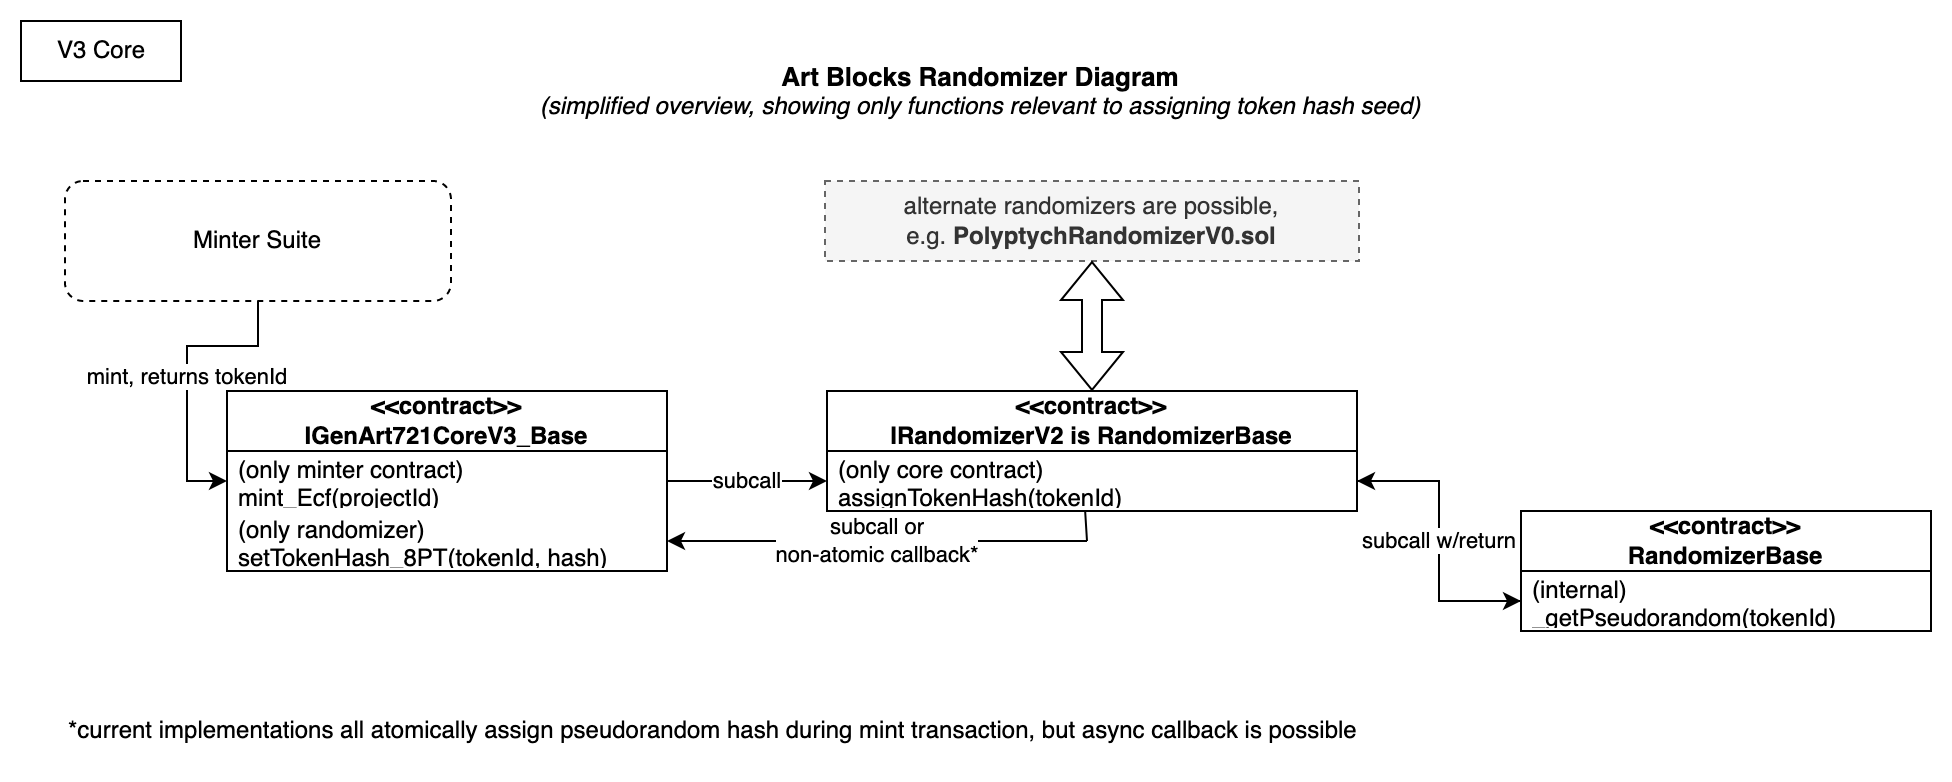
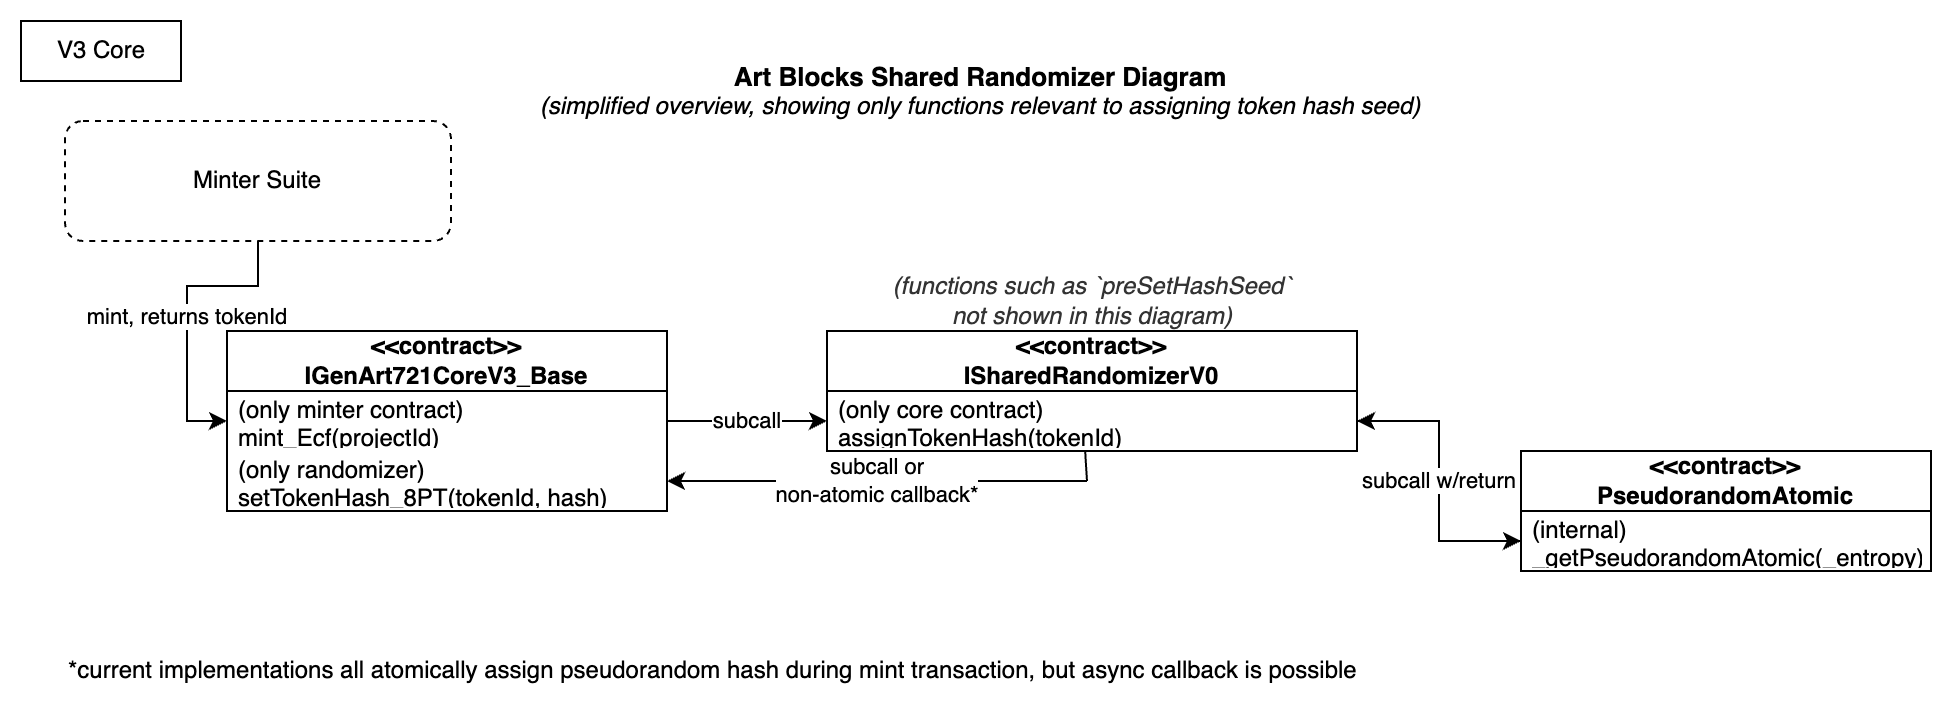
update documentation with new shared minter suite updates

diff --git a/packages/contracts/MINTER_SUITE.md b/packages/contracts/MINTER_SUITE.md
@@ -2,22 +2,26 @@
 
 ## Overview
 
-The Art Blocks Minter Suite is a collection of smart contracts that enable Artists (using V3 core contracts) to distribute tokens from their projects to collectors.
+The Art Blocks Minter Suite is a collection of smart contracts that enable Artists using V3 core contracts to distribute tokens from their projects to collectors.
 
 A diagram of the the Minter Suite is shown below:
 
-![minter-suite-diagram](./images/minter-suite-v1.png)
+![minter-suite-diagram](./images/minter-suite-v2.png)
+
+> note: The diagram above describes the Art Blocks Shared Minter Suite. The previous version of the non-shared minter suite is not shown.
 
 ## MinterFilter Suite Compatibility Chart
 
 The following table shows which Minters and MinterFilters are compatible with different Art Blocks and Art Blocks Engine Core contracts.
 
-| Core Contract Version                          | Minter Filter  | Recommended Minters                                                                                                                        |
-| :--------------------------------------------- | :------------- | :----------------------------------------------------------------------------------------------------------------------------------------- |
-| V1, V1_PRTNR                                   | MinterFilterV0 | MinterSetPriceV1<br>MinterSetPriceERC20V1<br>MinterDAExpV1<br>MinterDALinV1<br>MinterMerkleV0<br>MinterHolderV0                            |
-| V2 (PBAB)                                      | -              | (various PBAB minters)                                                                                                                     |
-| V3, V3_Explorations, V3_Engine, V3_Engine_Flex | MinterFilterV1 | MinterSetPriceV4<br>MinterSetPriceERC20V4<br>MinterMerkleV5<br>MinterHolderV4<br>MinterDALinV4<br>MinterDAExpV4<br>MinterDAExpSettlementV2 |
-| V3_Engine, V3_Engine_Flex                      | MinterFilterV1 | MinterPolyptychV0                                                                                                                          |
+| Core Contract Version                          | Minter Filter  | Recommended Minters                                                                                                                                        |
+| :--------------------------------------------- | :------------- | :--------------------------------------------------------------------------------------------------------------------------------------------------------- |
+| V1, V1_PRTNR                                   | MinterFilterV0 | MinterSetPriceV1<br>MinterSetPriceERC20V1<br>MinterDAExpV1<br>MinterDALinV1<br>MinterMerkleV0<br>MinterHolderV0                                            |
+| V2 (PBAB)                                      | -              | (various PBAB minters)                                                                                                                                     |
+| V3, V3_Explorations, V3_Engine, V3_Engine_Flex | MinterFilterV2 | MinterSetPriceV5<br>MinterSetPriceERC20V5<br>MinterSetPriceMerkleV5<br>MinterSetPriceHolderV4<br>MinterDALinV5<br>MinterDAExpV5<br>MinterDAExpSettlementV3 |
+| V3_Engine, V3_Engine_Flex                      | MinterFilterV2 | MinterSetPricePolyptychV5                                                                                                                                  |
+
+> note: MinterFilterV1 is also compatible with V3 core contracts, but it is recommended to migrate to MinterFilterV2 to enable additional functionality and indexing.
 
 ## Flagship
 
@@ -28,62 +32,40 @@ These are the smart contracts that receive funds, and split them between the art
 #### MinterSetPrice (Set Price)
 
 - V0 (deprecated): [0x1DEC9E52f1320F7Deb29cBCd7B7d67f3dF785142](https://etherscan.io/address/0x1DEC9E52f1320F7Deb29cBCd7B7d67f3dF785142#code)
-- V1: [0x934cdc04C434b8dBf3E1265F4f198D70566f7355](https://etherscan.io/address/0x934cdc04C434b8dBf3E1265F4f198D70566f7355#code)
-- V2: [0x7B7917e083CeA6d9f6a3060a7330c1072fcb4e40](https://etherscan.io/address/0x7B7917e083CeA6d9f6a3060a7330c1072fcb4e40#code)
-- V3: N/A, never used in prod.
-- V4: [0x234B25288011081817B5cC199C3754269cCb76D2](https://etherscan.io/address/0x234B25288011081817B5cC199C3754269cCb76D2#code)
+- V5: TBD
 
 #### MinterSetPriceERC20 (Set Price with ERC20)
 
 - V0 (deprecated): [0x48742D38a0809135EFd643c1150BfC13768C3907](https://etherscan.io/address/0x48742D38a0809135EFd643c1150BfC13768C3907#code)
-- V1: [0x0BbB93c5d118D1dee49e96BCAdc161403f4F8612](https://etherscan.io/address/0x0BbB93c5d118D1dee49e96BCAdc161403f4F8612#code)
-- V2: [0xe4c6EeF13649e9C4Ad8ae8A9C7fA9A7F26B4287a](https://etherscan.io/address/0xe4c6EeF13649e9C4Ad8ae8A9C7fA9A7F26B4287a#code)
-- V3: N/A, never used in prod.
-- V4: [0x9fEcd2FbC6D890fB93632DcE9b1a01c4090A7E2d](https://etherscan.io/address/0x9fEcd2FbC6D890fB93632DcE9b1a01c4090A7E2d#code)
+- V5: TBD
 
 #### MinterDALin (Linear Dutch Auction)
 
 - V0 (deprecated): [0xd219f61Bb5A3ffDeCB4362610977F1dAB3930eE2](https://etherscan.io/address/0xd219f61Bb5A3ffDeCB4362610977F1dAB3930eE2#code)
-- V1: [0x32710950B014c2D29EA24f480Dd02c7e4610663b](https://etherscan.io/address/0x32710950B014c2D29EA24f480Dd02c7e4610663b#code)
-- V2: [0xdaa6D1e224f4B9f7c4f1368C362C4333A8e385A6](https://etherscan.io/address/0xdaa6D1e224f4B9f7c4f1368C362C4333A8e385A6#code)
-- V3: N/A, never used in prod.
-- V4: [0x419501DD208BFf237e3E32C40D074065e12DfF4d](https://etherscan.io/address/0x419501DD208BFf237e3E32C40D074065e12DfF4d#code)
+- V5: TBD
 
 #### MinterDAExp (Exponential Decay Dutch Auction)
 
 - V0 (deprecated): [0xFc74fD0f2c7EaD04f1E5E9fd82Aef55620710D7C](https://etherscan.io/address/0xFc74fD0f2c7EaD04f1E5E9fd82Aef55620710D7C#code)
-- V1: [0xD94C7060808f3c876824E57e685702f3834D2e13](https://etherscan.io/address/0xD94C7060808f3c876824E57e685702f3834D2e13#code)
-- V2: [0x706d6C6ef700a3c1C3a727f0c46492492E0A72b5](https://etherscan.io/address/0x706d6C6ef700a3c1C3a727f0c46492492E0A72b5#code)
-- V3: N/A, never used in prod.
-- V4: [0x47e2df2723238f913741Cc6b1963e76fdfD19B94](https://etherscan.io/address/0x47e2df2723238f913741Cc6b1963e76fdfD19B94#code)
+- V5: TBD
 
 #### MinterDAExpSettlement (Expotential Decay Last Price Dutch Auction)
 
-- V0: N/A, never used in prod.
-- V1: [0xfdE58c821D1c226b4a45c22904de20b114EDe7E7](https://etherscan.io/address/0xfdE58c821D1c226b4a45c22904de20b114EDe7E7#code)
+- V2: TBD
 
 #### MinterMerkle (Address Allowlist)
 
-- V0: N/A, never used in prod.
-- V1: [0xae5A48D22Cd069c4d72dDe204A7fB4B302e614af](https://etherscan.io/address/0xae5A48D22Cd069c4d72dDe204A7fB4B302e614af)
-- V2: [0x6Ff3c104Ca9b4860D27079aFfF18701c4A532A4d](https://etherscan.io/address/0x6Ff3c104Ca9b4860D27079aFfF18701c4A532A4d)
-- V3: N/A, never used in prod.
-- V4: N/A, never used in prod.
-- V5: [0xB8Bd1D2836C466DB149f665F777928bEE267304d](https://etherscan.io/address/0xB8Bd1D2836C466DB149f665F777928bEE267304d#code)
+- V5: TBD
 
 #### Minter Holder (Token Holder)
 
-- V0: N/A, never used in prod.
-- V1: [0xa198E22C32879f4214a37eB3051525bD9aff9145](https://etherscan.io/address/0xa198E22C32879f4214a37eB3051525bD9aff9145)
-- V2: N/A, never used in prod.
-- V3: N/A, never used in prod.
-- V4: [0xCCFF562017bdAAa064184b3Eb9bd892d8Acce7d6](https://etherscan.io/address/0xCCFF562017bdAAa064184b3Eb9bd892d8Acce7d6#code)
+- V5: TBD
 
 ### Other Flagship Minter Contracts
 
 MinterFilterV0 for flagship V1 core: [0x4aafCE293b9B0faD169c78049A81e400f518E199](https://etherscan.io/address/0x4aafCE293b9B0faD169c78049A81e400f518E199#code).
 
-MinterFilterV1 for flagship V3 core: [0x092B8F64e713d66b38522978BCf4649db14b931E](https://etherscan.io/address/0x092B8F64e713d66b38522978BCf4649db14b931E).
+MinterFilterV1 for flagship V3 core: TBD
 
 Legacy minting contract for flagship V0 core: [0x47e312d99c09ce61a866c83cbbbbed5a4b9d33e7](https://etherscan.io/address/0x47e312d99c09ce61a866c83cbbbbed5a4b9d33e7).
 
@@ -91,4 +73,4 @@ Legacy minting contract for flagship V0 core: [0x47e312d99c09ce61a866c83cbbbbed5
 
 ### Engine Minter Contracts
 
-For deployed Art Blocks Engine minter contracts, see the minters included in each partner's deployment details in the `/deployments/engine/[V2|V3]/<engine-partner>/` directories.
+We encourage our Engine partners with V3 core contracts to migrate to use the shared minter suite, which uses the same minters as the Art Blocks flagship contract. However, some partners may choose to continue to use their existing minters or custom minters outside of the shared minter suite. In that case, see the minters included in each partner's deployment details in the `/deployments/engine/[V2|V3]/<engine-partner>/` directories.

diff --git a/packages/contracts/README.md b/packages/contracts/README.md
@@ -74,14 +74,20 @@ erDiagram
     MINTERFILTER ||--o{ MINTER_1 : uses
     MINTERFILTER ||--o{ MINTER_2 : uses
     MINTERFILTER ||--o{ MINTER_N : uses
-    MINTER_1 ||--|| I_FILTERED_MINTER : implements
-    MINTER_2 ||--|| I_FILTERED_MINTER : implements
-    MINTER_N ||--|| I_FILTERED_MINTER : implements
+    MINTER_1 ||--|| I_SHARED_MINTER : implements
+    MINTER_2 ||--|| I_SHARED_MINTER : implements
+    MINTER_N ||--|| I_SHARED_MINTER : implements
     RANDOMIZER ||--|| CORE_V3_V3_FLEX : provides_random
     ENGINE_REGISTRY ||--o{ CORE_V3_V3_FLEX : notifies
 ```
 
 For a more detailed overview of this architecture, please see the [V3 Contract Architecture page](./V3_ARCHITECTURE.md).
+
+## Minter Suite
+
+Art Blocks has developed a shared Minter Suite that is used to mint tokens for all Art Blocks Engine V3 tokens. The Minter Suite is designed to be highly flexible, and can be used to mint tokens in a variety of ways on any V3 Flagship or Art Blocks Engine contract.
+
+For details on the Art Blocks Shared Minter Suite, see the [minter suite documenation](./MINTER_SUITE.md).
 
 # Deployments
 
@@ -89,7 +95,7 @@ For a more detailed overview of this architecture, please see the [V3 Contract A
 
 > IMPORTANT - many scripts rely on typechain-generated factories, so ensure you have run `yarn generate:typechain` before running any deployment scripts.
 
-We have two types of deployment scripts: Generic and Specific.
+We have two types of deployment scripts: Generic and Specific. In general, most new deployments now use generic scripts.
 
 Generic deployment scripts are located in the `./scripts` directory. These scripts are used to deploy contracts that are not specific to a particular deployment. Generic deployment scripts are used to deploy contracts that are used by multiple partners or core contracts, such as the `Art Blocks Engine` contracts, or minters. Generic scripts take an input json file, located in the `/deployents/` directory, and execute the deployment as defined in the input file. In general, there are scripts prepared to run generic deployments for all networks and environments. For example, the following can be used to deploy the `Art Blocks Engine` contracts to the `goerli` test network (note that an input configuration is also required for all generic deployments.):
 
@@ -115,13 +121,14 @@ This is the Smart contract that controls the artwork created by the artist. No f
 
 Core contracts use the versioning schema below:
 
-|        Description        | Version  | Project Range | Mainnet Address                                                                                                                                                                                              |
-| :-----------------------: | :------: | :-----------: | :----------------------------------------------------------------------------------------------------------------------------------------------------------------------------------------------------------- |
-|        AB Core V0         |    V0    |      0-2      | `0x059EDD72Cd353dF5106D2B9cC5ab83a52287aC3a`                                                                                                                                                                 |
-|        AB Core V1         |    V1    |     3-373     | `0xa7d8d9ef8D8Ce8992Df33D8b8CF4Aebabd5bD270`                                                                                                                                                                 |
-|     Engine Cores (V2)     | V2_PBAB  |   All PBAB    | Various - see `deployments/engine/` directory [DEPLOYMENTS.md files](https://github.com/search?q=repo%3AArtBlocks%2Fartblocks-contracts+extension%3Amd+filename%3ADEPLOYMENTS&type=Code&ref=advsearch&l=&l=) |
-| Engine Partner Cores (V2) | V2_PRTNR |   All PRTNR   | Various - see `deployments/engine/` directory [DEPLOYMENTS.md files](https://github.com/search?q=repo%3AArtBlocks%2Fartblocks-contracts+extension%3Amd+filename%3ADEPLOYMENTS&type=Code&ref=advsearch&l=&l=) |
-|   AB Core V3 (current)    |    V3    |     374+      | `0x99a9B7c1116f9ceEB1652de04d5969CcE509B069`                                                                                                                                                                 |
+|        Description        |          Version          | Project Range | Mainnet Address                                                                                                                                                                                                  |
+| :-----------------------: | :-----------------------: | :-----------: | :--------------------------------------------------------------------------------------------------------------------------------------------------------------------------------------------------------------- |
+|        AB Core V0         |            V0             |      0-2      | `0x059EDD72Cd353dF5106D2B9cC5ab83a52287aC3a`                                                                                                                                                                     |
+|        AB Core V1         |            V1             |     3-373     | `0xa7d8d9ef8D8Ce8992Df33D8b8CF4Aebabd5bD270`                                                                                                                                                                     |
+|     Engine Cores (V2)     |          V2_PBAB          | All V2 Engine | Various - see `deployments/engine/` directory [DEPLOYMENTS.md files](https://github.com/search?q=repo%3Aartblocks%2Fartblocks-contracts+path%3A*.md+path%3A**%2FDEPLOYMENTS.md&type=Code&ref=advsearch&l=&l=)    |
+| Engine Partner Cores (V2) |         V2_PRTNR          | All V2 PRTNR  | Various - see `deployments/engine/` directory [DEPLOYMENTS.md files](https://github.com/search?q=repo%3Aartblocks%2Fartblocks-contracts+path%3A*.md+path%3A**%2FDEPLOYMENTS.md&type=Code&ref=advsearch&l=&l=)    |
+|   AB Core V3 (current)    |            V3             |     374+      | `0x99a9B7c1116f9ceEB1652de04d5969CcE509B069`                                                                                                                                                                     |
+| Engine_V3, Engine_V3_Flex | Engine_V3, Engine_V3_Flex | All V3 Engine | Various - see `deployments/engine/V3/` directory [DEPLOYMENTS.md](https://github.com/search?q=repo%3Aartblocks%2Fartblocks-contracts+path%3A*.md+path%3A**%2FDEPLOYMENTS.md&type=Code&ref=advsearch&l=&l=) files |
 
 > AB Core V3 [changelog here](./contracts/V3_CHANGELOG.md), and [performance metrics here](./contracts/V3_PERFORMANCE.md).
 
@@ -153,17 +160,18 @@ Given that it is an externally linked library with a shared public deployment, t
 - V1 `BytecodeStorageReader` (arbitrum-goerli): https://goerli.arbiscan.io/address/0x681861cD4fC92d70aE57745385065ef862954662#code
 - V1 `BytecodeStorageReader` (arbitrum): https://arbiscan.io/address/0xa07f47c30C262adcC263A4D44595972c50e04db7#code
 
-## Minter Suite
-
-For details on the Flagship and Engine Minter Suite, see the [minter suite documenation](./MINTER_SUITE.md).
-
 ## Shared Randomizers
 
-- Goerli: https://goerli.etherscan.io/address/0xec5dae4b11213290b2dbe5295093f75920bd2982#code
-- Ropsten: https://ropsten.etherscan.io/address/0x7ba972189ED3C527847170453fC108707F62755a#code
-- Rinkeby: https://rinkeby.etherscan.io/address/0x3b30d421a6dA95694EaaE09971424F15Eb375269#code
-- Kovan: https://kovan.etherscan.io/address/0x3b30d421a6dA95694EaaE09971424F15Eb375269#code
-- Mainnet: https://etherscan.io/address/0x088098f7438773182b703625c4128aff85fcffc4#code
+Art Blocks has developed a shared Randomizer contract that is used to generate pseudo-random numbers for all Art Blocks Engine V3 tokens. The Randomizer contract is designed to handle all globally approved shared minters, including minters that may assign token hashes directly such as the Polyptych minter.
+
+The most recent version of the Shared Randomizer contract is deployed at the following addresses:
+
+- Goerli: TBD
+- Mainnet: TBD
+- Arbitrum Goerli: TBD
+- Arbitrum: TBD
+
+> Note: Previous versions of the Randomizer contract are recorded on each V3 core contract itself, able to be queried via the `getHistoricalRandomizerAt()` function.
 
 ## Contract Source Code Verification
 

diff --git a/packages/contracts/V3_ARCHITECTURE.md b/packages/contracts/V3_ARCHITECTURE.md
@@ -12,7 +12,7 @@ The V3 core contract integrates with a few peripheral contracts to offer flexibl
 
 - [Admin Access Control List (ACL) contract](#admin-access-control-list-acl-contract)
 - [Randomizer contract](#randomizer-contract)
-- [Engine Registry contract](#engine-registry-contract)
+- [Core Registry contract](#core-registry-contract)
 - [Minter Suite contracts](#minter-suite-contracts)
 - [Royalty Registry contract (by Manifold)](./ROYALTIES.md)
 
@@ -34,15 +34,20 @@ A diagram of the V3 core contract and Admin ACL contract integration is shown be
 
 The Randomizer contract is used to generate pseudo random numbers for the V3 core contract, when new tokens are minted. This architecture is designed to be highly flexible, enabling designs that may desire to use asynchrounous random number generation or other hash generation methods (such as our Polyptych Randomizer contract).
 
+A shared randomizer was developed as part of our shared minter suite development, and may be used to generate random numbers for all V3 tokens. The randomizer is designed to handle all globally approved shared minters, including minters that may assign token hashes directly such as the Polyptych minter.
+
 A diagram of the V3 core contract and Randomizer contract integration is shown below:
 
 ![randomizer-diagram](./images/randomizer-v3-core-integration.png)
 
-### Engine Registry contract
+### Core Registry contract
 
-The Engine Registry contract notifies our subgraph indexing service of new Art Blocks Engine tokens. When the Engine Registry emits an event, the subgraph indexing service is notified and the Engine contract is indexed and made available for querying on the Art Blocks subgraph.
+The Core Registry contract performs two functions:
 
-A diagram of the V3 core contract and Engine Registry contract integration is shown below:
+1. Notifies our subgraph indexing service of newly deployed Art Blocks Engine contracts. When the Core Registry emits an event, the subgraph indexing service is notified and the Engine contract is indexed and made available for querying on the Art Blocks subgraph.
+2. Provides an on-chain registry of all V3 Art Blocks core contracts. This registry is used by the shared minter filter contract to validate that a given project is on a valid and approved Art Blocks V3 Core contract, approved for use on the Art Blocks platform. This is primarily done to prevent phishing attacks, limiting shared minters to only minting tokens on approved Art Blocks V3 Core contracts.
+
+A diagram of the V3 core contract and Core Registry contract integration is shown below:
 
 ![engine-registry-diagram](./images/engine-registry-v3-core-integration.png)
 
